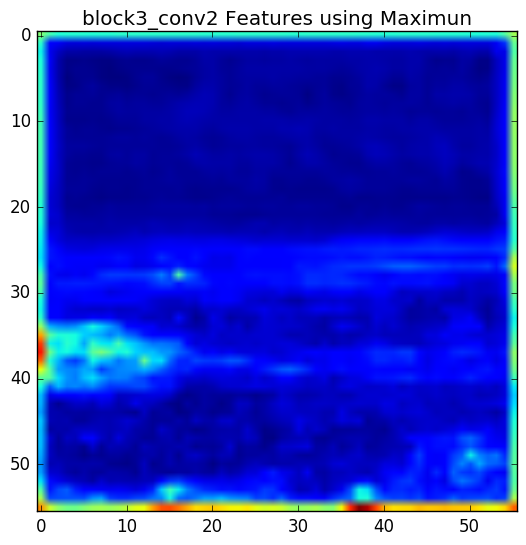
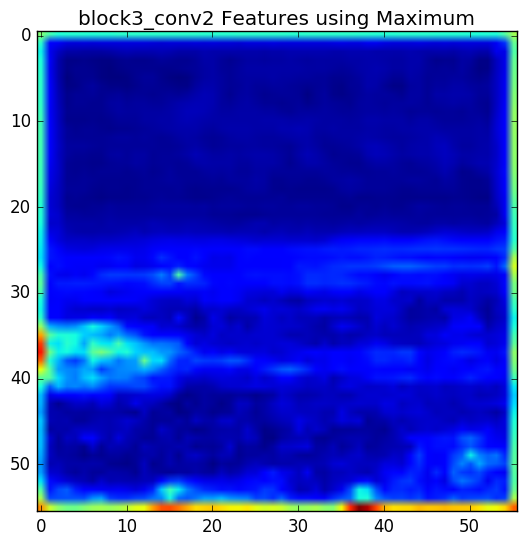
final task2

Changed region(s): [[0.1521, 0.0, 0.9125, 0.0624]]

diff --git a/Session4/session4_task2.py b/Session4/session4_task2.py
@@ -23,10 +23,10 @@ features = model.predict(x)
 features_3d = features[0][:]
 
 #get rid of the third dimension
-option = 'average' # 'maximum' 'average'
-
+option = 'maximum' # 'maximum' 'average' 'median'
+features_to_show=np.zeros((features_3d.shape[0],features_3d.shape[1]))
+    
 if (option == 'average'):
-    features_to_show=np.zeros((features_3d.shape[0],features_3d.shape[1]))
     for p in range(0,features_3d.shape[2]):
         features_to_show[:,:] = features_to_show[:,:] +  features_3d[:,:,p] 
     #average
@@ -36,14 +36,21 @@ if (option == 'average'):
     plt.title('block3_conv2 Features using Avarage')
     plt.savefig('block3_conv2_features_avg.png', bbox_inches='tight')
 elif(option == 'maximum'):
-    features_to_show=np.zeros((features_3d.shape[0],features_3d.shape[1]))
     for w in range(0,features_3d.shape[0]):
         for h in range(0,features_3d.shape[1]):
             features_to_show[w][h] = np.amax(features_3d[w,h,:])
     plt.figure()
     plt.imshow(features_to_show)
-    plt.title('block3_conv2 Features using Maximun')
+    plt.title('block3_conv2 Features using Maximum')
     plt.savefig('block3_conv2_features_max.png', bbox_inches='tight')
+elif(option == 'median'):
+    for w in range(0,features_3d.shape[0]):
+        for h in range(0,features_3d.shape[1]):
+            features_to_show[w][h] = np.median(features_3d[w,h,:])
+    plt.figure()
+    plt.imshow(features_to_show)
+    plt.title('block3_conv2 Features using Median')
+    plt.savefig('block3_conv2_features_median.png', bbox_inches='tight')
 else:
     print 'option not recognized'     
 
